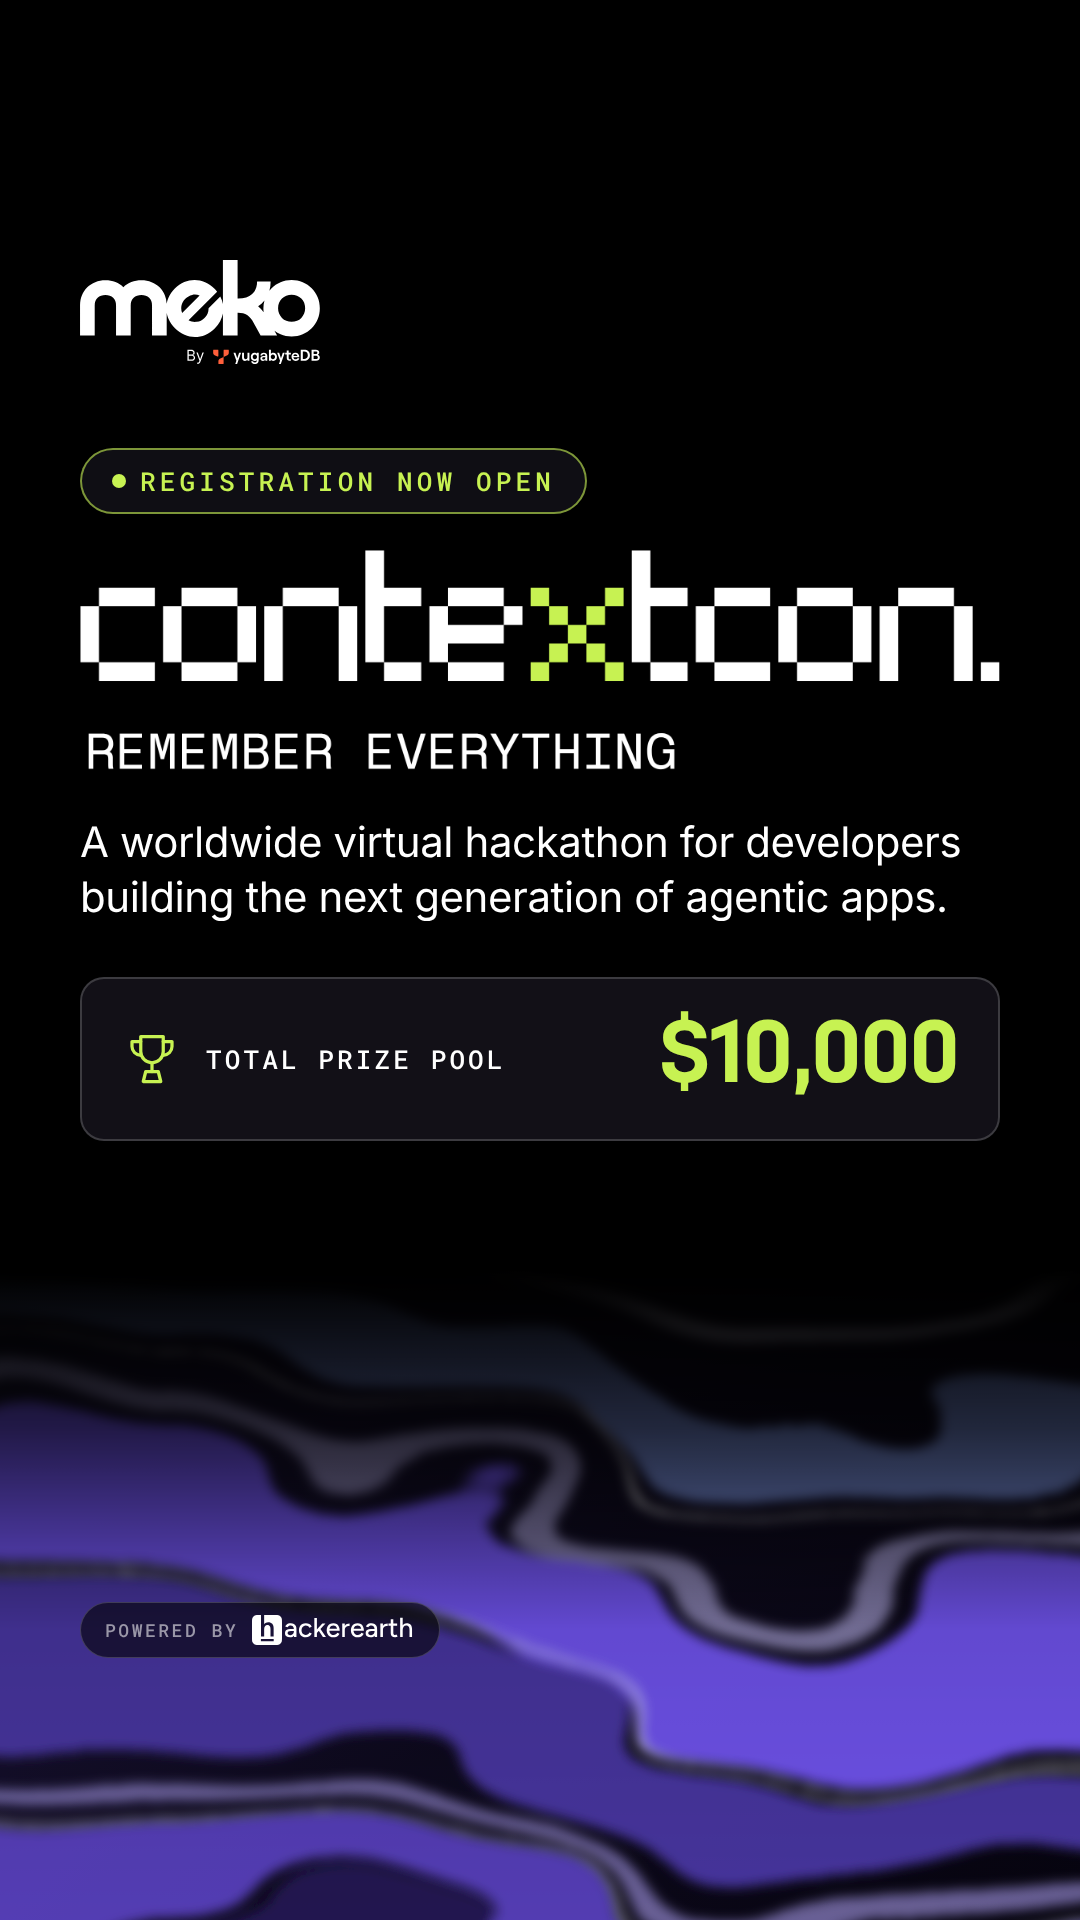
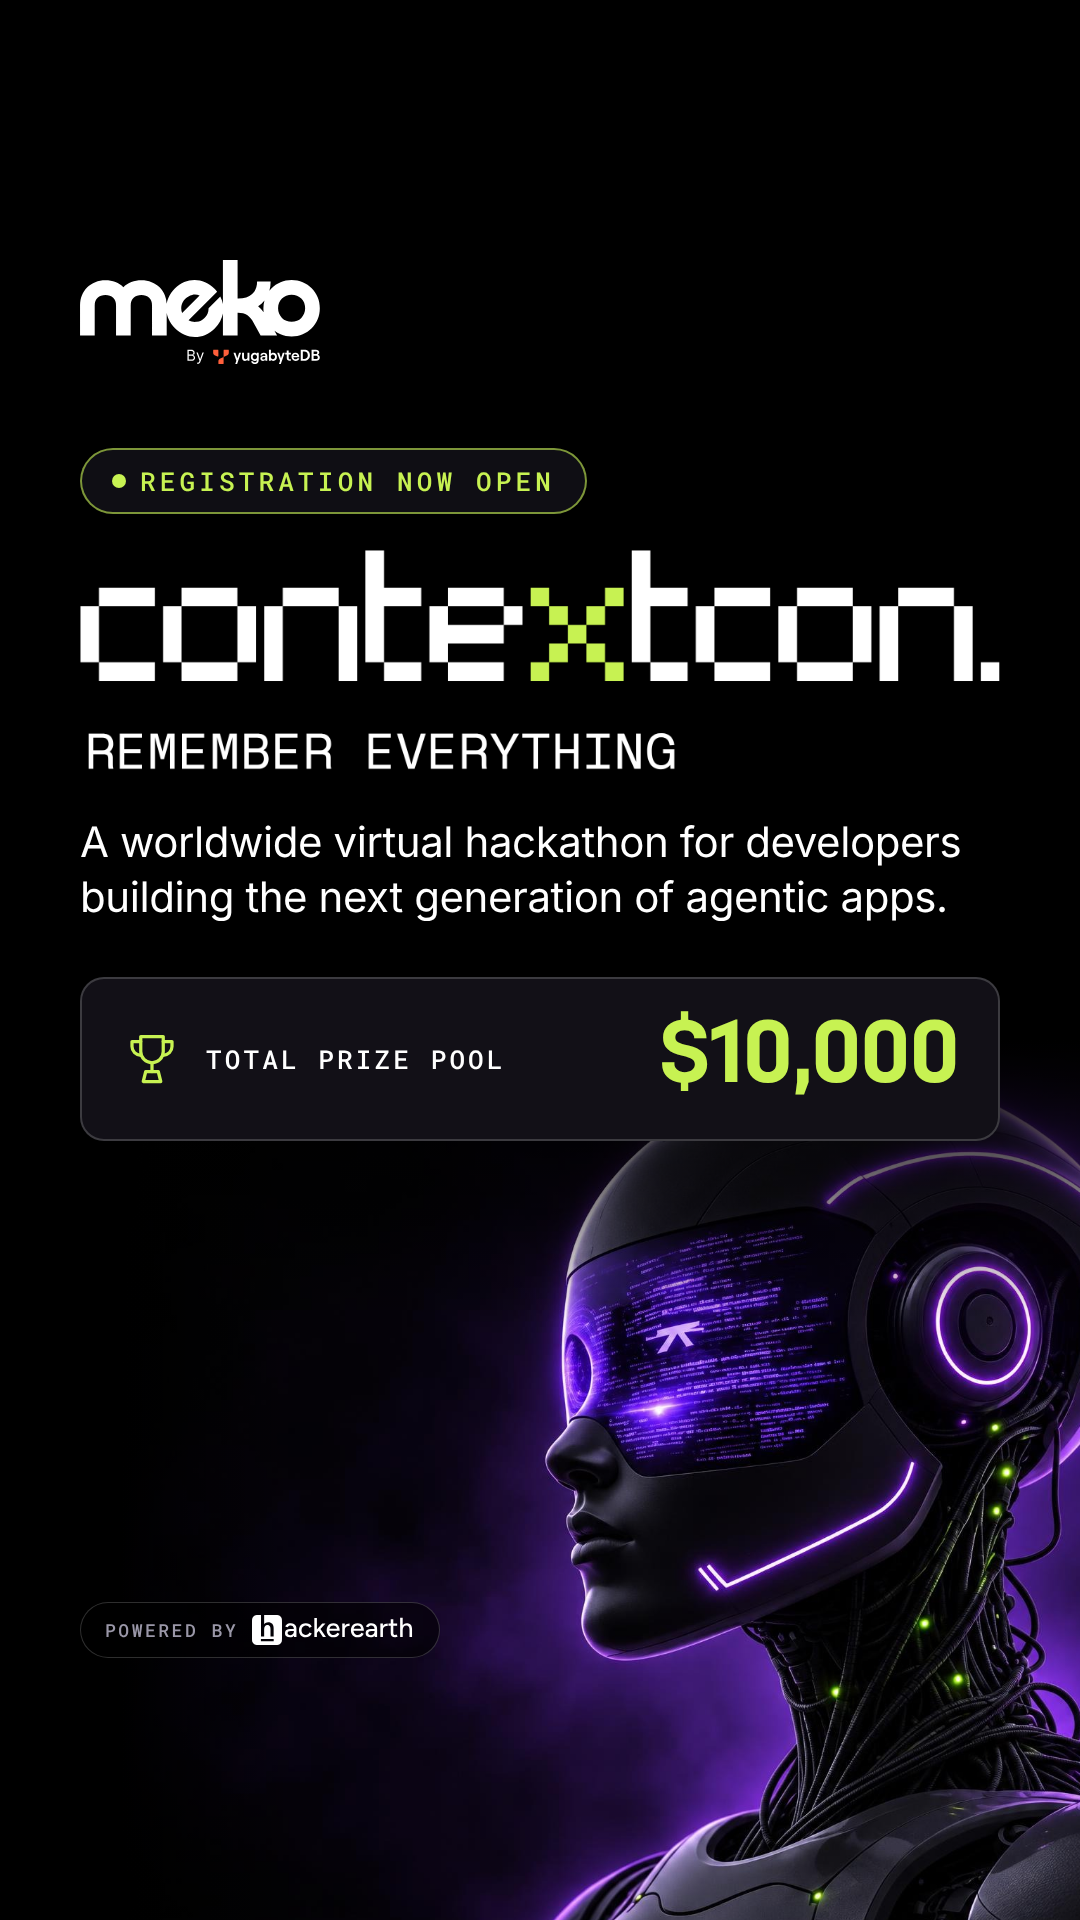
Instagram story: replace texture with robot image
Claude-Session: https://claude.ai/code/session_011WvSfbuXTc2R9BKwTF66Kj

Changed region(s): [[0.0, 0.5625, 1.0, 1.0]]

diff --git a/banners/contextcon-insta-story-1080x1920.html b/banners/contextcon-insta-story-1080x1920.html
@@ -19,7 +19,10 @@
 html,body{margin:0;background:var(--ground)}
 body{min-height:100vh;display:grid;place-items:center;-webkit-font-smoothing:antialiased}
 .story{position:relative;width:1080px;height:1920px;overflow:hidden;background:var(--ground);font-family:var(--sans);color:var(--text)}
-.tex{position:absolute;left:0;bottom:0;width:1080px;height:1120px;display:block}
+.photo{position:absolute;left:120px;top:1040px;width:1080px;height:1080px;background:url(assets/linkedin-robot.jpg) center/cover no-repeat}
+.photo::after{content:'';position:absolute;inset:0;background:
+  linear-gradient(180deg,#000 0%,rgba(0,0,0,.6) 12%,rgba(0,0,0,0) 26%),
+  linear-gradient(90deg,#000 0%,rgba(0,0,0,0) 16%)}
 /* content sits inside Instagram's safe area (clear of top ~250px and bottom ~250px UI) */
 .content{position:absolute;left:80px;right:80px;top:260px;bottom:250px;display:flex;flex-direction:column;align-items:flex-start}
 .pill{margin:84px 0 0;font-family:var(--mono);font-size:26px;font-weight:500;letter-spacing:.16em;text-transform:uppercase;color:var(--lime);
@@ -42,45 +45,7 @@ h1 img{display:block;width:100%;height:auto}
 </head>
 <body>
 <main class="story" aria-label="ContextCon: Remember everything — registration now open">
-  <svg class="tex" viewBox="700 -640 1300 1348" preserveAspectRatio="xMidYMid slice" aria-hidden="true">
-    <defs>
-      <linearGradient id="g135" x1="0" y1="0" x2="1" y2="1">
-        <stop offset="0" stop-color="#8ea8ff"/><stop offset=".35" stop-color="#7859fe"/>
-        <stop offset=".62" stop-color="#4a35a2"/><stop offset="1" stop-color="#20154f"/>
-      </linearGradient>
-      <filter id="marble" x="-10%" y="-10%" width="120%" height="120%">
-        <feTurbulence type="fractalNoise" baseFrequency="0.0022 0.005" numOctaves="2" seed="23" result="n"/>
-        <feDisplacementMap in="SourceGraphic" in2="n" scale="260" xChannelSelector="R" yChannelSelector="G" result="d"/>
-        <feGaussianBlur in="d" stdDeviation="7"/>
-      </filter>
-      <linearGradient id="vfade" x1="0" y1="0" x2="0" y2="1">
-        <stop offset=".42" stop-color="#fff" stop-opacity="0"/>
-        <stop offset=".56" stop-color="#fff" stop-opacity=".3"/>
-        <stop offset=".74" stop-color="#fff" stop-opacity=".9"/>
-        <stop offset="1" stop-color="#fff" stop-opacity="1"/>
-      </linearGradient>
-      <mask id="vm"><rect x="700" y="-640" width="1300" height="1348" fill="url(#vfade)"/></mask>
-    </defs>
-    <g mask="url(#vm)">
-      <rect x="700" y="-640" width="1300" height="1348" fill="url(#g135)" opacity=".18"/>
-      <g filter="url(#marble)">
-        <path d="M240 -240 C680 -130 1160 -290 1380 -100 S1760 0 2140 -80" stroke="#e9e6ff" stroke-width="30" fill="none" opacity="0.7"/>
-<path d="M240 -80 C680 30 1160 -130 1380 60 S1760 160 2140 80" stroke="#8ea8ff" stroke-width="90" fill="none" opacity="0.75"/>
-<path d="M240 70 C680 180 1160 20 1380 210 S1760 310 2140 230" stroke="#c9c2ff" stroke-width="26" fill="none" opacity="0.6"/>
-<path d="M240 180 C680 290 1160 130 1380 320 S1760 420 2140 340" stroke="#7859fe" stroke-width="150" fill="none" opacity="0.9"/>
-<path d="M240 350 C680 460 1160 300 1380 490 S1760 590 2140 510" stroke="#4a35a2" stroke-width="130" fill="none" opacity="0.95"/>
-<path d="M240 480 C680 590 1160 430 1380 620 S1760 720 2140 640" stroke="#b7a8ff" stroke-width="30" fill="none" opacity="0.55"/>
-<path d="M240 600 C680 710 1160 550 1380 740 S1760 840 2140 760" stroke="#5f46cd" stroke-width="120" fill="none" opacity="0.85"/>
-<path d="M240 760 C680 870 1160 710 1380 900 S1760 1000 2140 920" stroke="#20154f" stroke-width="170" fill="none" opacity="1"/>
-<path d="M240 940 C680 1050 1160 890 1380 1080 S1760 1180 2140 1100" stroke="#4a35a2" stroke-width="90" fill="none" opacity="0.8"/>
-<path d="M240 1100 C680 1210 1160 1050 1380 1240 S1760 1340 2140 1260" stroke="#20154f" stroke-width="160" fill="none" opacity="1"/>
-<path d="M260 0 C700 110 1180 -50 1400 140 S1780 240 2140 160" stroke="#ffffff" stroke-width="5" fill="none" opacity="0.7"/>
-<path d="M260 270 C700 380 1180 220 1400 410 S1780 510 2140 430" stroke="#ffffff" stroke-width="5" fill="none" opacity="0.55"/>
-<path d="M260 530 C700 640 1180 480 1400 670 S1780 770 2140 690" stroke="#ffffff" stroke-width="5" fill="none" opacity="0.5"/>
-<path d="M260 870 C700 980 1180 820 1400 1010 S1780 1110 2140 1030" stroke="#ffffff" stroke-width="5" fill="none" opacity="0.4"/>
-      </g>
-    </g>
-  </svg>
+  <div class="photo" aria-hidden="true"></div>
 
   <div class="content">
     <div class="meko"><svg xmlns="http://www.w3.org/2000/svg" role="img" aria-label="Meko by YugabyteDB" viewBox="0 0 943.4 409.61"><path fill="#ffffff" d="M 881.02 210.62 C 878.36 217.12 874.66 222.82 869.94 227.69 C 865.21 232.55 859.59 236.33 853.08 238.99 C 846.58 241.65 839.18 242.98 831.79 242.98 C 824.41 242.98 817.46 241.65 810.95 238.99 C 804.45 236.33 798.77 232.55 793.88 227.69 C 789.02 222.82 785.24 217.12 782.58 210.62 C 779.93 204.12 778.59 197.18 778.59 189.78 C 778.59 182.09 779.93 174.99 782.58 168.49 C 785.24 161.98 789.02 156.36 793.88 151.64 C 798.75 146.91 804.45 143.21 810.95 140.55 C 817.46 137.89 824.39 136.56 831.79 136.56 C 847.17 136.56 859.88 141.59 869.94 151.64 C 879.98 161.7 885.01 174.42 885.01 189.78 C 885.01 197.16 883.68 204.12 881.02 210.62 M 700.15 182.27 C 709.77 175.62 718.07 167.79 725.09 158.77 C 722.32 168.58 720.94 178.91 720.94 189.78 C 720.94 195.04 721.28 200.22 721.96 205.27 C 715.19 196.5 707.91 188.84 700.15 182.27 M 401.55 208.27 C 397.78 198.64 396.95 188.92 399.04 179.09 C 401.12 169.26 406.15 160.37 414.09 152.43 C 422.04 144.48 430.98 139.42 440.9 137.23 C 450.84 135.04 460.61 135.82 470.22 139.58 Z M 934.22 146.1 C 928.61 132.66 920.76 120.91 910.72 110.85 C 900.68 100.81 888.93 92.98 875.47 87.35 C 862.01 81.75 847.17 78.93 831.79 78.93 C 816.41 78.93 801.93 81.75 788.33 87.35 C 774.73 92.96 762.98 100.81 753.08 110.85 C 750.05 113.94 747.19 117.2 744.51 120.62 C 747.77 109.36 749.38 97.23 749.38 84.26 L 696.16 84.26 C 696.16 105.55 689.66 122.12 676.65 133.94 C 663.65 145.76 645.3 151.67 621.66 151.67 L 619.45 151.67 L 619.45 0 L 561.79 0 L 561.79 173 C 559.89 162.99 556.46 153.22 551.46 143.64 L 505.36 189.74 C 505.79 203.95 500.46 216.6 489.37 227.69 C 480.59 236.45 470.51 241.65 459.12 243.21 C 447.71 244.79 436.91 242.74 426.65 237.1 L 538.92 124.83 C 535.37 120.03 532.02 116.06 528.88 112.92 C 517.6 101.62 505.18 93.1 491.71 87.35 C 478.25 81.62 464.54 78.69 450.64 78.59 C 436.75 78.48 423.11 81.26 409.73 86.9 C 396.32 92.54 384 101.01 372.72 112.29 C 361.42 123.59 352.97 135.91 347.31 149.3 C 344.2 156.67 341.98 164.11 340.61 171.63 C 339.96 159.95 337.59 149.01 333.48 138.81 C 328.59 126.7 321.73 116.28 312.85 107.55 C 303.98 98.83 293.48 92.04 281.36 87.16 C 269.23 82.29 255.63 79.84 241.44 79.84 C 227.24 79.84 214.09 82.21 201.96 86.94 C 189.84 91.68 179.34 98.33 170.47 106.9 C 161.88 98.33 151.55 91.66 139.43 86.94 C 127.3 82.21 114.45 79.84 99.95 79.84 C 85.45 79.84 72.16 82.29 60.03 87.16 C 47.9 92.02 37.41 98.83 28.54 107.55 C 19.68 116.26 12.73 126.68 7.7 138.81 C 2.66 150.93 0.15 164.09 0.15 178.28 L 0.15 297.13 L 57.8 297.13 L 57.8 178.71 C 57.8 166.3 61.65 156.32 69.34 148.78 C 77.03 141.25 87.21 137.48 99.93 137.48 L 99.99 137.48 C 112.71 137.48 122.84 141.25 130.37 148.78 C 137.89 156.31 141.67 166.3 141.67 178.71 L 141.67 297.13 L 199.32 297.13 L 199.32 178.71 C 199.32 166.3 203.17 156.32 210.86 148.78 C 218.55 141.25 228.73 137.48 241.45 137.48 C 254.18 137.48 264.31 141.25 271.84 148.78 C 279.36 156.31 283.14 166.3 283.14 178.71 L 283.14 297.13 L 340.79 297.13 L 340.79 208.61 C 342.25 216.24 344.58 223.79 347.78 231.3 C 353.53 244.79 362.04 257.17 373.33 268.47 L 373.36 268.47 C 384.86 279.97 397.35 288.59 410.84 294.32 C 424.32 300.09 437.95 302.95 451.75 302.95 C 465.55 302.95 479.15 300.14 492.52 294.49 C 505.92 288.84 518.25 280.38 529.53 269.08 C 538.31 260.31 545.46 250.74 551.02 240.39 C 556.24 230.62 559.84 220.62 561.79 210.39 L 561.79 297.11 L 619.45 297.11 L 619.45 207.08 L 621.66 207.08 C 635.55 207.08 647.3 210.26 656.91 216.62 C 666.52 223 675.16 233.26 682.85 247.45 L 709.91 297.13 L 774.66 297.13 L 764.47 278.35 C 771.66 283.76 779.62 288.29 788.33 291.99 C 801.93 297.76 816.13 300.63 831.79 300.63 C 847.46 300.63 862.01 297.76 875.47 291.99 C 888.91 286.22 900.66 278.41 910.72 268.49 C 920.76 258.59 928.59 246.84 934.22 233.24 C 939.82 219.64 942.64 205.45 942.64 189.78 C 942.64 174.11 939.82 159.56 934.22 146.1 "/><path fill="#ffffff" d="M 926.7 389.04 L 918.33 389.04 L 918.33 376.73 L 926.7 376.73 C 932.21 376.73 934.87 379 934.87 382.93 C 934.87 386.88 932.21 389.04 926.7 389.04 M 918.33 359.5 L 926.3 359.5 C 930.73 359.5 932.9 361.38 932.9 364.72 C 932.9 368.07 930.73 369.84 926.4 369.84 L 918.33 369.84 Z M 935.26 372.6 C 937.92 371.22 940.48 368.17 940.48 364.04 C 940.48 356.95 934.87 353.01 926.99 353.01 L 910.26 353.01 L 910.26 396.12 L 927.59 396.12 C 936.64 396.12 942.64 391.4 942.64 383.32 C 942.64 377.62 939.3 374.07 935.27 372.59 Z M 935.26 372.6 "/><path fill="#ffffff" d="M 881.13 389.04 L 875.91 389.04 L 875.91 360 L 881.13 360 C 888.51 360 895.59 363.84 895.59 374.57 C 895.59 385.3 888.51 389.04 881.13 389.04 Z M 881.71 353.01 L 867.74 353.01 L 867.74 396.12 L 881.71 396.12 C 893.73 396.12 903.87 388.94 903.87 374.57 C 903.87 360.2 893.73 353.01 881.71 353.01 Z M 881.71 353.01 "/><path fill="#ffffff" d="M 846.67 370.24 C 851.2 370.24 853.85 373.19 854.25 377.13 L 838.89 377.13 C 839.68 372.5 842.44 370.24 846.67 370.24 Z M 854.54 385.79 C 853.76 388.74 851.2 390.32 847.26 390.32 C 842.54 390.32 839.29 387.17 838.7 382.15 L 861.63 382.15 C 861.76 381.3 861.82 380.45 861.82 379.59 C 861.82 372.11 857.1 364.53 846.67 364.53 C 836.23 364.53 831.41 372.3 831.41 380.47 C 831.41 388.64 837.12 396.62 847.26 396.62 C 854.94 396.62 860.74 392.39 861.92 385.79 Z M 854.54 385.79 "/><path fill="#ffffff" d="M 828.86 371.42 L 828.86 365.02 L 820.29 365.02 L 820.29 355.66 L 812.71 355.66 L 812.71 365.02 L 806.61 365.02 L 806.61 371.42 L 812.71 371.42 L 812.71 385.3 C 812.71 392.19 817.14 396.12 823.93 396.12 L 828.86 396.12 L 828.86 389.73 L 824.72 389.73 C 821.97 389.73 820.29 388.15 820.29 385 L 820.29 371.42 Z M 828.86 371.42 "/><path fill="#ffffff" d="M 797.16 365.02 L 790.07 386.38 L 782.79 365.02 L 775.11 365.02 L 786.43 396.12 L 782.1 408.72 L 789.28 408.72 L 794.11 394.64 L 804.93 365.02 L 797.16 365.02 Z M 797.16 365.02 "/><path fill="#ffffff" d="M 758.27 390.12 C 753.25 390.12 749.9 386.29 749.9 380.57 C 749.9 374.86 753.25 371.12 758.27 371.12 C 763.29 371.12 766.64 374.86 766.64 380.57 C 766.64 386.28 763.29 390.12 758.27 390.12 M 759.55 364.53 C 755.52 364.53 752.17 366.3 750.39 368.86 L 750.39 353.02 L 742.82 353.02 L 742.82 396.12 L 750.39 396.12 L 750.39 392.29 C 752.17 394.95 755.62 396.62 759.36 396.62 C 768.71 396.62 774.22 390.12 774.22 380.57 C 774.22 371.02 768.71 364.53 759.55 364.53 Z M 759.55 364.53 "/><path fill="#ffffff" d="M 728.64 383.04 C 728.64 387.66 725.89 391 721.16 391 C 718.31 391 716.34 389.43 716.34 386.97 C 716.34 384.31 718.51 382.54 721.66 382.54 L 728.64 382.54 Z M 722.64 364.53 C 714.57 364.53 709.35 369.35 708.96 375.55 L 715.75 375.55 C 715.85 372.8 718.31 370.24 722.35 370.24 C 726.38 370.24 728.64 372.41 728.64 375.45 C 728.64 376.64 727.96 377.52 726.38 377.52 L 720.67 377.52 C 713.69 377.52 708.96 381.26 708.96 387.37 C 708.96 392.68 713.19 396.62 719.3 396.62 C 723.82 396.62 727.36 394.55 728.64 391.5 L 728.64 396.12 L 736.13 396.12 L 736.13 376.14 C 736.13 369.16 730.52 364.53 722.64 364.53 Z M 722.64 364.53 "/><path fill="#ffffff" d="M 658.36 365.02 L 658.36 382.05 C 658.36 386.58 655.31 389.92 651.07 389.92 C 646.84 389.92 644.58 386.97 644.58 382.74 L 644.58 365.02 L 637.1 365.02 L 637.1 384.31 C 637.1 391.59 641.43 396.61 648.62 396.61 C 653.04 396.61 656.59 394.75 658.36 391.3 L 658.36 396.12 L 665.95 396.12 L 665.95 365.02 Z M 658.36 365.02 "/><path fill="#ffffff" d="M 625.38 365.02 L 618.2 386.38 L 611.02 365.02 L 603.34 365.02 L 614.65 396.12 L 610.32 408.72 L 617.51 408.72 L 622.33 394.64 L 633.16 365.02 Z M 625.38 365.02 "/><path fill="#ffffff" d="M 687.3 390.12 C 682.28 390.12 678.93 386.28 678.93 380.57 C 678.93 374.86 682.28 371.12 687.3 371.12 C 692.32 371.12 695.77 374.86 695.77 380.57 C 695.77 386.27 692.42 390.12 687.3 390.12 M 695.18 365.02 L 695.18 368.56 C 693.41 366.2 690.06 364.53 686.12 364.53 C 676.87 364.53 671.45 371.12 671.45 380.57 C 671.45 390.02 676.87 396.62 686.22 396.62 C 690.75 396.62 693.7 395.04 695.27 392.68 L 695.27 393.18 C 695.27 398.98 693.41 402.92 687.3 402.92 C 683.46 402.92 681.5 401.35 680.21 398.29 L 672.64 398.29 C 674.31 405.87 679.43 409.22 687.3 409.22 C 697.14 409.22 702.46 403.31 702.46 393.18 L 702.76 365.02 L 695.18 365.02 Z M 695.18 365.02 "/><path fill="#ff5f3b" d="M 539.94 353.01 C 541.34 353.01 542.05 353.01 542.59 353.28 C 543.05 353.52 543.44 353.91 543.68 354.38 C 543.95 354.91 543.95 355.62 543.95 357.02 L 543.95 374.68 C 543.95 376.77 543.95 377.82 543.51 378.46 C 543.12 379.02 542.53 379.41 541.86 379.52 C 541.09 379.64 540.14 379.2 538.24 378.32 L 533.3 376.01 C 529.73 374.35 527.94 373.52 526.63 372.23 C 525.48 371.09 524.6 369.71 524.05 368.18 C 523.45 366.45 523.45 364.48 523.45 360.55 L 523.45 357.02 C 523.45 355.62 523.45 354.91 523.72 354.38 C 523.96 353.91 524.34 353.52 524.81 353.28 C 525.35 353.01 526.05 353.01 527.46 353.01 Z M 539.94 353.01 "/><path fill="#ff5f3b" d="M 580.96 353.01 C 582.37 353.01 583.07 353.01 583.61 353.28 C 584.08 353.52 584.46 353.91 584.71 354.38 C 584.98 354.91 584.98 355.62 584.98 357.02 L 584.98 360.55 C 584.98 364.49 584.98 366.46 584.37 368.18 C 583.83 369.71 582.95 371.1 581.79 372.23 C 580.48 373.52 578.7 374.35 575.13 376.01 L 564.47 380.98 L 564.47 357.02 C 564.47 355.62 564.47 354.91 564.74 354.38 C 564.98 353.91 565.37 353.52 565.84 353.28 C 566.38 353.01 567.08 353.01 568.48 353.01 Z M 580.96 353.01 "/><path fill="#ff5f3b" d="M 564.47 380.98 L 564.47 404.95 C 564.47 406.35 564.47 407.05 564.2 407.59 C 563.95 408.06 563.57 408.45 563.1 408.69 C 562.56 408.96 561.86 408.96 560.45 408.96 L 547.97 408.96 C 546.57 408.96 545.86 408.96 545.33 408.69 C 544.86 408.45 544.47 408.06 544.23 407.59 C 543.96 407.05 543.96 406.35 543.96 404.95 L 543.96 401.42 C 543.96 397.48 543.96 395.51 544.57 393.78 C 545.11 392.25 545.99 390.87 547.15 389.73 C 548.46 388.45 550.24 387.62 553.81 385.95 Z M 564.47 380.98 "/><path fill="#ffffff" d="M 427.5 391.49 L 437.88 391.49 C 441.29 391.49 443.71 390.83 445.16 389.5 C 446.6 388.17 447.32 386.56 447.32 384.66 C 447.32 383.2 446.95 381.85 446.2 380.61 C 445.46 379.36 444.39 378.36 443.02 377.61 C 441.64 376.86 440.01 376.48 438.13 376.48 L 427.5 376.48 Z M 427.5 371.93 L 437.2 371.93 C 438.77 371.93 440.2 371.62 441.47 371 C 442.74 370.38 443.75 369.52 444.5 368.39 C 445.26 367.27 445.63 365.95 445.63 364.43 C 445.63 362.53 444.97 360.92 443.65 359.59 C 442.33 358.26 440.23 357.6 437.37 357.6 L 427.5 357.6 Z M 422.28 396.13 L 422.28 352.96 L 437.37 352.96 C 440.38 352.96 442.86 353.48 444.81 354.51 C 446.76 355.54 448.22 356.93 449.17 358.66 C 450.13 360.4 450.61 362.32 450.61 364.43 C 450.61 366.28 450.28 367.81 449.62 369.02 C 448.97 370.23 448.12 371.19 447.05 371.89 C 446 372.59 444.84 373.11 443.61 373.45 L 443.61 373.87 C 444.93 373.96 446.26 374.42 447.59 375.26 C 448.93 376.11 450.04 377.31 450.95 378.89 C 451.84 380.46 452.29 382.39 452.29 384.66 C 452.29 386.82 451.8 388.77 450.82 390.5 C 449.83 392.23 448.28 393.6 446.16 394.61 C 444.04 395.62 441.28 396.13 437.88 396.13 Z M 422.28 396.13 "/><path fill="#ffffff" d="M 463.42 408.19 C 462.58 408.19 461.83 408.12 461.17 407.98 C 460.5 407.85 460.05 407.72 459.8 407.59 L 461.06 403.21 C 462.88 403.68 464.38 403.66 465.59 403.18 C 466.8 402.7 467.85 401.24 468.73 398.83 L 469.66 396.3 L 457.69 363.75 L 463.09 363.75 L 472.02 389.55 L 472.36 389.55 L 481.3 363.75 L 486.73 363.84 L 472.95 400.85 C 472.33 402.5 471.57 403.86 470.65 404.95 C 469.74 406.04 468.68 406.85 467.48 407.38 C 466.28 407.92 464.93 408.19 463.42 408.19 "/></svg></div>
